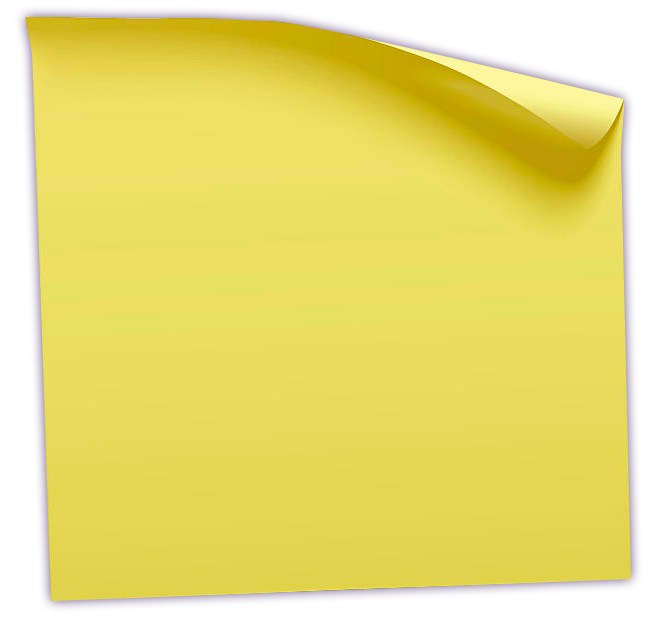
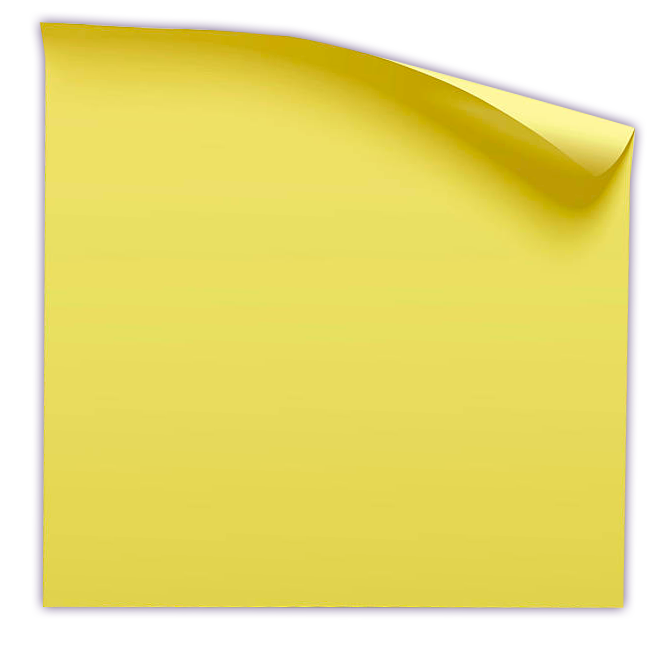
created sticky-note structure

Changed region(s): [[0.0306, 0.0, 0.9801, 0.5823], [0.0306, 0.6742, 0.827, 0.9806], [0.8576, 0.3677, 0.9801, 0.95]]

diff --git a/src/App.js b/src/App.js
@@ -9,19 +9,19 @@ class App extends Component {
       tasksList: [
         {
           id: 0,
-          task: "run"
+          task: "Eat Cookies"
         },
         {
           id: 1,
-          task: "wash dishes"
+          task: "Run"
         },
         {
           id: 2,
-          task: "make a millie"
+          task: "Make a Millie"
         },
         {
           id: 3,
-          task: "make a billie"
+          task: "Make a Billie 😎"
         },
         {},
         {},
@@ -50,10 +50,30 @@ class App extends Component {
     this.setState({ tasksList: tasksArray });
   }
 
+  // delete(i) {
+  //   console.log("delete() called");
+  //   console.log("state.tasks.tasksList before splice", this.state.tasksList);
+
+  //   this.state.tasksList.splice(i, 1);
+  //   this.state.tasksList.push({});
+  //   this.setState({ tasksList: this.state.tasksList });
+  //   console.log(
+  //     "state.tasks.tasksList AFTER splice & setState",
+  //     this.state.tasksList
+  //   );
+  // }
   delete(i) {
-    let tasksArray = this.state.tasksList;
-    tasksArray[i].task = "";
-    this.setState({ tasksList: tasksArray });
+    console.log("delete() called");
+    console.log("state.tasks.tasksList before splice", this.state.tasksList);
+
+    let currentTaskList = this.state.tasksList;
+    currentTaskList[i] = {};
+
+    this.setState({ tasksList: currentTaskList });
+    console.log(
+      "state.tasks.tasksList AFTER splice & setState",
+      this.state.tasksList
+    );
   }
 
   eachTaskItem(taskObject, i) {
@@ -70,6 +90,20 @@ class App extends Component {
   render() {
     return (
       <div className="main-bg container-flex">
+        <div className="sticky-note">
+          <div className="row">
+            <div className="col-8">
+              <p>Current Tasks:</p>
+              <p>Completed:</p>
+              <p>Deleted:</p>
+            </div>
+            <div className="col">
+              <p>22</p>
+              <p>3</p>
+              <p>12</p>
+            </div>
+          </div>
+        </div>
         <div className="paper-container row">
           <div className="paper-left-section col-1" />
           <div className="paper-right-section col">

diff --git a/src/css/main.css b/src/css/main.css
@@ -16,7 +16,7 @@
   height: 700px;
   background-color: white;
   margin-left: auto;
-  margin-right: 10%;
+  margin-right: 7%;
   box-shadow: 2px 2px 20px black;
 }
 
@@ -116,4 +116,38 @@ input {
 }
 .btn-delete:hover {
   color: red;
+}
+
+.sticky-note {
+  position: absolute;
+  right: 50%;
+  top: 400px;
+  background-image: url("../img/sticky-note.png");
+  background-size: cover;
+  background-position: center;
+  height: 250px;
+  width: 250px;
+  transform: rotate(-4deg);
+}
+
+.sticky-note .row {
+  font-family: "Caveat", cursive;
+  font-size: 1.4rem;
+  font-weight: 600;
+  margin-top: 70px;
+  margin-left: 25px;
+}
+
+.sticky-note .col p {
+  font-size: 1.5rem;
+  font-weight: 900;
+}
+
+.sticky-note .row .col {
+  padding-left: 0px;
+  margin-left: -10px;
+}
+
+.sticky-note .row .col-8 {
+  padding-right: 0px;
 }
